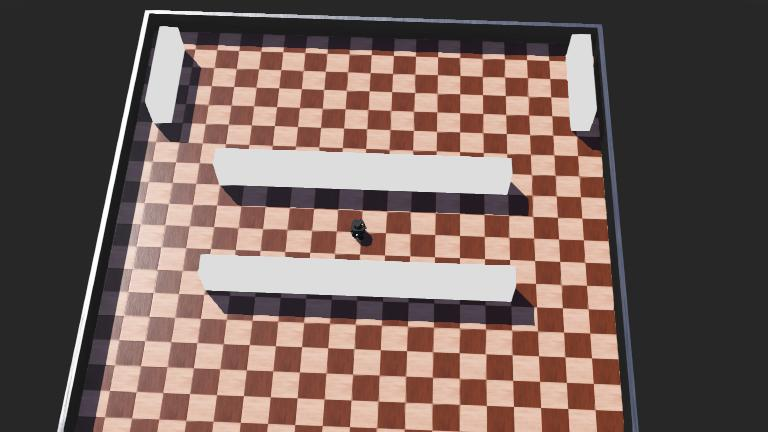
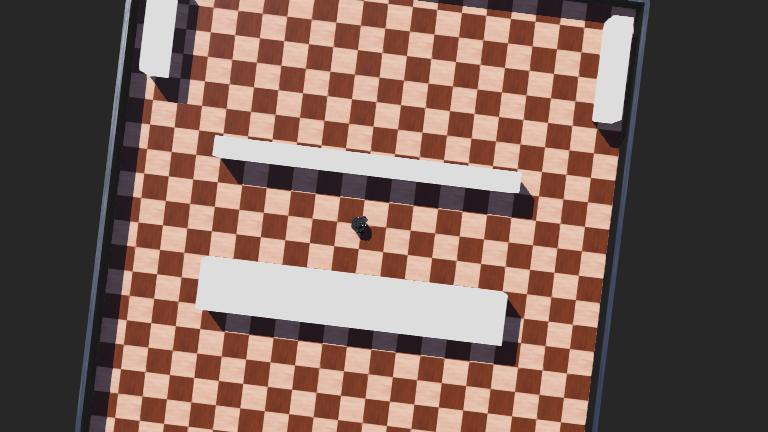
zo, exploration is normaal ook klaar, nu werkt het, ik hoop dat het gaat blijven werken. Referentie naar het artikel heb ik ook toegevoegd, aangezien we later nog een verslag moeten schrijven dacht ik

diff --git a/Controller/src/turtleBot/turtleBot.py b/Controller/src/turtleBot/turtleBot.py
@@ -557,91 +557,112 @@ class TurtleBot:
     def normalizeAngle(self, angle): 
         return angle % (2 * math.pi)
     
-    def explore_environment(self):
-        """Verkent de omgeving tot de gewenste dekking is bereikt"""
+    def explore_environment(self, num_candidates=30, cost_alpha=1.0):
+        """Verkent de omgeving met Mutual Information gebaseerde doel selectie."""
+        """
+            J. M. Valero, J. del Cerro, A. Jardón, C. R. Quintero and J. L. Sanz, 
+            "Mutual information-based exploration on continuous occupancy maps," 
+            2016 IEEE International Conference on Robotics and Automation (ICRA), 
+            Stockholm, Sweden, 2016, pp. 2807-2812, 
+            doi: 10.1109/ICRA.2016.7487635.
+        """
+        print("Starting Mutual Information based exploration...")
+        processed_targets = set() 
+        tries = 0
+
         while self.robot.step(self.timeStep) != -1:
-            # Update de grid met LiDAR-data
-            self.lidarFunc.scan(self.lidarSens, self.get_position())
-            if self.lidarFunc.occupancyGrid.is_explored():
-                print("Exploration complete!")
+            current_pos_dict = self.get_position()
+            self.lidarFunc.scan(self.lidarSens, current_pos_dict)
+
+            if tries > 10:
+                print("Too many tries, stopping exploration. It is probably done!.")
                 break
-            
-            # Find nearest unexplored area
-            target = self.find_nearest_unexplored()
-            if target:
-                print(f"Moving to unexplored area at {target}")
-                success = self.move_to_position(target[0], target[1])
-                if not success:
-                    print("Failed to move to target, trying different approach")
-                    # Try moving to a random nearby position
-                    self.move_position(0.5, 0, 0)
+
+            grid_obj = self.lidarFunc.occupancyGrid
+            current_theta = current_pos_dict['theta_value']
+
+            frontier_cells = grid_obj.find_frontier_cells()
+
+            if not frontier_cells:
+                print("No more frontiers found. Exploration might be stuck or complete.")
+                break
+
+            if len(frontier_cells) > num_candidates:
+                indices = np.random.choice(len(frontier_cells), num_candidates, replace=False)
+                candidate_grid_cells = [frontier_cells[i] for i in indices]
             else:
-                print("No unexplored areas found!")
-                break
+                candidate_grid_cells = frontier_cells
+
+            entropy_grid = grid_obj.get_entropy_grid() 
+
+            print(f"Evaluating {len(candidate_grid_cells)} candidate frontier cells...")
+            candidate_info = []
+
+            for candidate_cell in candidate_grid_cells:
+                candidate_pose_grid = candidate_cell
+                candidate_theta = current_theta
+
+                observed_cells_indices = grid_obj.simulate_scan_from_pose(candidate_pose_grid, candidate_theta)
+
+                information_gain = 0
+                for r, c in observed_cells_indices:
+                     if 0 <= r < grid_obj.grid_cells and 0 <= c < grid_obj.grid_cells:
+                           information_gain += entropy_grid[r, c]
+
+                candidate_world_coords = grid_obj.grid_to_world(candidate_cell)
+                dx = candidate_world_coords[0] - current_pos_dict['x_value']
+                dy = candidate_world_coords[1] - current_pos_dict['y_value']
+                cost = math.sqrt(dx**2 + dy**2)
+
+                if cost < 1e-6:
+                    utility = information_gain 
+                else:
+                    utility = information_gain / (cost ** cost_alpha)
+
+                candidate_info.append({
+                    'cell': candidate_cell,
+                    'world': candidate_world_coords,
+                    'gain': information_gain,
+                    'cost': cost,
+                    'utility': utility
+                })
+
+            if not candidate_info:
+                print("Warning: No valid candidates found after evaluation.")
+                continue
             
+            candidate_info.sort(key=lambda x: x['utility'], reverse=True)
 
-    # def find_nearest_unexplored(self):
-    #     """Vind de dichtstbijzijnde onverkende cel (status 0)"""
-    #     robot_pos = self.get_position()
-    #     grid = self.lidarFunc.occupancyGrid
-        
-    #     grid_x = int((robot_pos['x_value'] + grid.map_size/2) / grid.map_resolution)
-    #     grid_y = int((robot_pos['y_value'] + grid.map_size/2) / grid.map_resolution)
-    #     grid_x = np.clip(grid_x, 0, grid.grid_cells-1)
-    #     grid_y = np.clip(grid_y, 0, grid.grid_cells-1)
-        
-    #     directions = [(-1,-1),(-1,0),(-1,1),(0,-1),(0,1),(1,-1), (1,0), (1,1)]
-        
-    #     visited = np.zeros((grid.grid_cells, grid.grid_cells), dtype=bool)
-    #     queue = deque()
-    #     queue.append((grid_x, grid_y))
-    #     visited[grid_x, grid_y] = True
+            selected_candidate = None
+            for candidate in candidate_info:
+                 target_key = (round(candidate['world'][0], 2), round(candidate['world'][1], 2))
+                 if target_key not in processed_targets:
+                     selected_candidate = candidate
+                     processed_targets.add(target_key)
+                     break 
+            if selected_candidate is None:
+                print("All high-utility frontiers have been tried recently. Picking the best overall.")
+                if candidate_info:
+                     selected_candidate = candidate_info[0]
+                else:
+                     print("ERROR: No candidates available at all.")
+                     break
 
-    #     while queue:
-    #         x, y = queue.popleft()
-    #         value = grid.grid[x, y]
 
-    #         prob = 1 - 1 / (1 + np.exp(value))
+            if selected_candidate:
+                target_world = selected_candidate['world']
+                print(f"Selected Target: {target_world} (Cell: {selected_candidate['cell']}) "
+                      f"Utility: {selected_candidate['utility']:.2f} (Gain: {selected_candidate['gain']:.2f}, Cost: {selected_candidate['cost']:.2f})")
 
-    #         if 0.3 < prob < 0.7:
-    #             world_x = (x * grid.map_resolution) - grid.map_size / 2
-    #             world_y = (y * grid.map_resolution) - grid.map_size / 2
-    #             return world_x, world_y
+                success = self.move_to_position(target_world[0], target_world[1])
 
-    #         for dx, dy in directions:
-    #             nx, ny = x + dx, y + dy
-    #             if (0 <= nx < grid.grid_cells and 
-    #                 0 <= ny < grid.grid_cells and 
-    #                 not visited[nx, ny]):
-    #                 visited[nx, ny] = True
-    #                 queue.append((nx, ny))
+                if not success:
+                    tries += 1
+                    print(f"Failed to reach target {target_world}. Adding to processed targets.")
+                else:
+                    tries = 0
+            else:
+                 print("Could not select a new target.")
+                 self.robot.step(self.timeStep * 10)
 
-    #     # HOPPAAAA, everything has been visited
-    #     return None
-
-    def find_nearest_unexplored(self):
-        """Find the nearest unexplored cell (status unknown)"""
-        robot_pos = self.get_position()
-        grid = self.lidarFunc.occupancyGrid
-        
-        # Convert probability grid (0=free, 1=occupied)
-        prob_grid = 1 - 1 / (1 + np.exp(grid.grid))
-        
-        # Find all unexplored cells (probability between 0.3 and 0.7)
-        unexplored = (prob_grid > 0.3) & (prob_grid < 0.7)
-        
-        if not np.any(unexplored):
-            return None
-            
-        # Find closest unexplored cell
-        grid_x, grid_y = np.where(unexplored)
-        robot_grid_x = int((robot_pos['x_value'] + grid.map_size/2) / grid.map_resolution)
-        robot_grid_y = int((robot_pos['y_value'] + grid.map_size/2) / grid.map_resolution)
-        
-        distances = np.sqrt((grid_x - robot_grid_x)**2 + (grid_y - robot_grid_y)**2)
-        closest_idx = np.argmin(distances)
-        
-        world_x = (grid_x[closest_idx] * grid.map_resolution) - grid.map_size / 2
-        world_y = (grid_y[closest_idx] * grid.map_resolution) - grid.map_size / 2
-        
-        return world_x, world_y
+        print("Exploration loop finished.")

diff --git a/Controller/src/turtleBot/lidar.py b/Controller/src/turtleBot/lidar.py
@@ -40,6 +40,111 @@ class OccupancyGrid:
         self.explored = -1
         self.exploration_radius = 0.35
         self.coverage_threshold = 0.9
+        self.unknown_threshold_low = -0.5 # Log-odds
+        self.unknown_threshold_high = 0.5  # Log-odds
+        self.max_lidar_range_cells = int(3.5 / self.map_resolution) # Max Lidar bereik in cellen (pas 3.5m aan indien nodig)
+
+    def get_probability_grid(self):
+        """Converteert log-odds grid naar probability grid (0=vrij, 1=bezet)."""
+        return 1 / (1 + np.exp(-self.grid)) # Sigmoid
+
+    def calculate_entropy(self, probability):
+        """Berekent de entropie van een cel."""
+        # Vermijd log(0) errors
+        p = np.clip(probability, 1e-9, 1 - 1e-9)
+        return -p * np.log2(p) - (1 - p) * np.log2(1 - p)
+
+    def get_entropy_grid(self):
+        """Berekent de entropie voor elke cel in de grid."""
+        prob_grid = self.get_probability_grid()
+        return self.calculate_entropy(prob_grid)
+
+    def simulate_scan_from_pose(self, pose_grid_coords, pose_theta, num_rays=72):
+        """
+        Simuleert een Lidar scan vanaf een gegeven pose op de *huidige* grid.
+        Retourneert een set van grid cellen die verwacht worden waargenomen.
+        """
+        observed_cells = set()
+        fov_rad = math.radians(360) # Lidar FOV (pas aan indien nodig)
+        angle_increment = fov_rad / num_rays
+
+        start_cell = tuple(pose_grid_coords)
+        observed_cells.add(start_cell)
+
+        # Huidige kansen op bezetting
+        prob_grid = self.get_probability_grid()
+
+        for i in range(num_rays):
+            angle = pose_theta - fov_rad / 2 + angle_increment * i
+            end_x = int(round(start_cell[0] + self.max_lidar_range_cells * math.cos(angle)))
+            end_y = int(round(start_cell[1] + self.max_lidar_range_cells * math.sin(angle)))
+
+            start_cell_int = (int(start_cell[0]), int(start_cell[1]))
+            end_point_int = (int(end_x), int(end_y))
+
+            line_cells = bresenham(start_cell_int, end_point_int) # Jouw functie!
+
+            for cell_coord in line_cells:
+                r, c = cell_coord[0], cell_coord[1]
+
+                if 0 <= r < self.grid_cells and 0 <= c < self.grid_cells:
+                    cell_coords_tuple = (r, c) # Zorg dat het een tuple is voor de set
+                    observed_cells.add(cell_coords_tuple)
+                    if prob_grid[r, c] > self.occ_prob:
+                        break
+                else:
+                    break
+
+        return list(observed_cells) # Retourneer als lijst van tuples (r, c)urneer als lijst van tuples (r, c)
+
+    def find_frontier_cells(self):
+        """
+        Vindt 'frontier' cellen: vrije cellen die grenzen aan onbekende cellen.
+        Retourneert een lijst van (r, c) coördinaten van frontier cellen.
+        """
+        prob_grid = self.get_probability_grid()
+        frontiers = []
+
+        free_threshold = self.free_prob # Cellen met kans < free_threshold zijn vrij
+
+        is_unknown = (self.grid >= self.unknown_threshold_low) & (self.grid <= self.unknown_threshold_high)
+        is_free = prob_grid < free_threshold
+
+        # Vind vrije cellen
+        free_indices = np.argwhere(is_free)
+
+        # Check buren van vrije cellen
+        for r, c in free_indices:
+            # Check 8 buren
+            is_frontier = False
+            for dr in [-1, 0, 1]:
+                for dc in [-1, 0, 1]:
+                    if dr == 0 and dc == 0:
+                        continue
+                    nr, nc = r + dr, c + dc
+                    # Check grenzen
+                    if 0 <= nr < self.grid_cells and 0 <= nc < self.grid_cells:
+                        if is_unknown[nr, nc]:
+                            is_frontier = True
+                            break
+                if is_frontier:
+                    break
+            if is_frontier:
+                frontiers.append((r, c))
+
+        return frontiers
+
+    def grid_to_world(self, grid_coords):
+        """Converteert grid coördinaten (r, c) terug naar wereld coördinaten (x, y)."""
+
+        world_x = (grid_coords[0] * self.map_resolution) - self.map_size / 2 + self.map_resolution / 2 # Centrum van cel
+        world_y = (grid_coords[1] * self.map_resolution) - self.map_size / 2 + self.map_resolution / 2 # Centrum van cel
+
+        world_x = (grid_coords[0] + 0.5) * self.map_resolution - self.map_size / 2
+        world_y = (grid_coords[1] + 0.5) * self.map_resolution - self.map_size / 2
+
+        return [world_x, world_y]
+
 
     def world_to_grid(self, world_coords, position):
         grid_x = int(np.floor(((world_coords[0] + self.map_size/2) / self.map_resolution)))
@@ -56,23 +161,6 @@ class OccupancyGrid:
             if line:
                 self.update_cell(line[-1], self.occ_prob)
         
-        # radius_cells = int(self.exploration_radius / self.map_resolution)
-        # for dx in range(-radius_cells, radius_cells+1):
-        #     for dy in range(-radius_cells, radius_cells+1):
-        #         if math.hypot(dx, dy) * self.map_resolution <= self.exploration_radius:
-        #             x = sensor_pos[0] + dx
-        #             y = sensor_pos[1] + dy
-        #             if 0 <= x < self.grid_cells and 0 <= y < self.grid_cells:
-        #                 # Alleen updaten als niet occupied
-        #                 if self.grid[x, y] <= 0: 
-        #                     self.grid[x, y] = self.explored
-        # for hit in hits:
-        #     # for cell in line[:-1]:  # Alle cellen behalve de laatste
-        #     #     self.update_cell(cell, self.free_prob)
-        #     if line:  # Laatste cel als occupied markeren
-        #         self.update_cell(line[-1], self.occ_prob)
-                
-                
         for hit in hits:
             line = bresenham(sensor_pos, hit)
             log_odds = np.log(self.occ_prob / (1 - self.occ_prob))
@@ -83,6 +171,7 @@ class OccupancyGrid:
         log_odds = np.log(probability / (1 - probability))
         self.grid[cell[0], cell[1]] += log_odds
         self.grid = np.clip(self.grid, -10, 10)
+        
         
     def is_explored(self):
         prob_grid = 1 - 1 / (1 + np.exp(self.grid))
@@ -173,22 +262,13 @@ class LidarFunctions:
             
     def get_occupancy_grid(self):
         """
-        Converteer het interne log-odds grid naar een probability grid (0-1) en retourneer het als numpy array.
-        
-        Returns:
-            tuple: (grid_prob, extent)
-                - grid_prob: 2D numpy array met occupancy probabilities (0 = vrij, 1 = bezet)
-                - extent: List [x_min, x_max, y_min, y_max] voor plotten (in meters)
+        Converteer log-odds NAAR JUISTE PROBABILITIES (zonder 1 - ...)
         """
-        # Converteer log-odds naar probabilities (sigmoid)
-        grid_prob = 1 - 1 / (1 + np.exp(self.occupancyGrid.grid))
-        
-        # Bereken de extent van de map (in meters)
+        grid_prob = 1 / (1 + np.exp(-self.occupancyGrid.grid))  # Dit is de correcte sigmoid
         extent = [
-            -self.occupancyGrid.map_size / 2,
-            self.occupancyGrid.map_size / 2,
-            -self.occupancyGrid.map_size / 2,
-            self.occupancyGrid.map_size / 2
+            -self.occupancyGrid.map_size/2,
+            self.occupancyGrid.map_size/2,
+            -self.occupancyGrid.map_size/2,
+            self.occupancyGrid.map_size/2
         ]
-        
-        return grid_prob.T, extent  # Transpose voor correcte oriëntatie
+        return grid_prob.T, extent

diff --git a/Controller/main.py b/Controller/main.py
@@ -55,6 +55,8 @@ def robot_loop(robot: Robot, bot: TurtleBot, supervisor_node: Node):
     # bot.start_lidar()
     bot.explore_environment()
     # bot.move_position(-0.5,-0.5,0)
+    # bot.move_to_position(-1.03, 0)
+    # bot.move_to_position(0, 0)
     # movements = [
     #     (1, 0.0, 0), # Rotate left
     #     (0,0,90),
@@ -65,7 +67,6 @@ def robot_loop(robot: Robot, bot: TurtleBot, supervisor_node: Node):
     
     time.sleep(20000)
     # bot.move_position(0, 0, -180)
-    # bot.move_to_position(1, 0)
     # bot.move_position(0.25,0,0)
     # bot.move_position(0,0.25,0)
     # time.sleep(5000)
